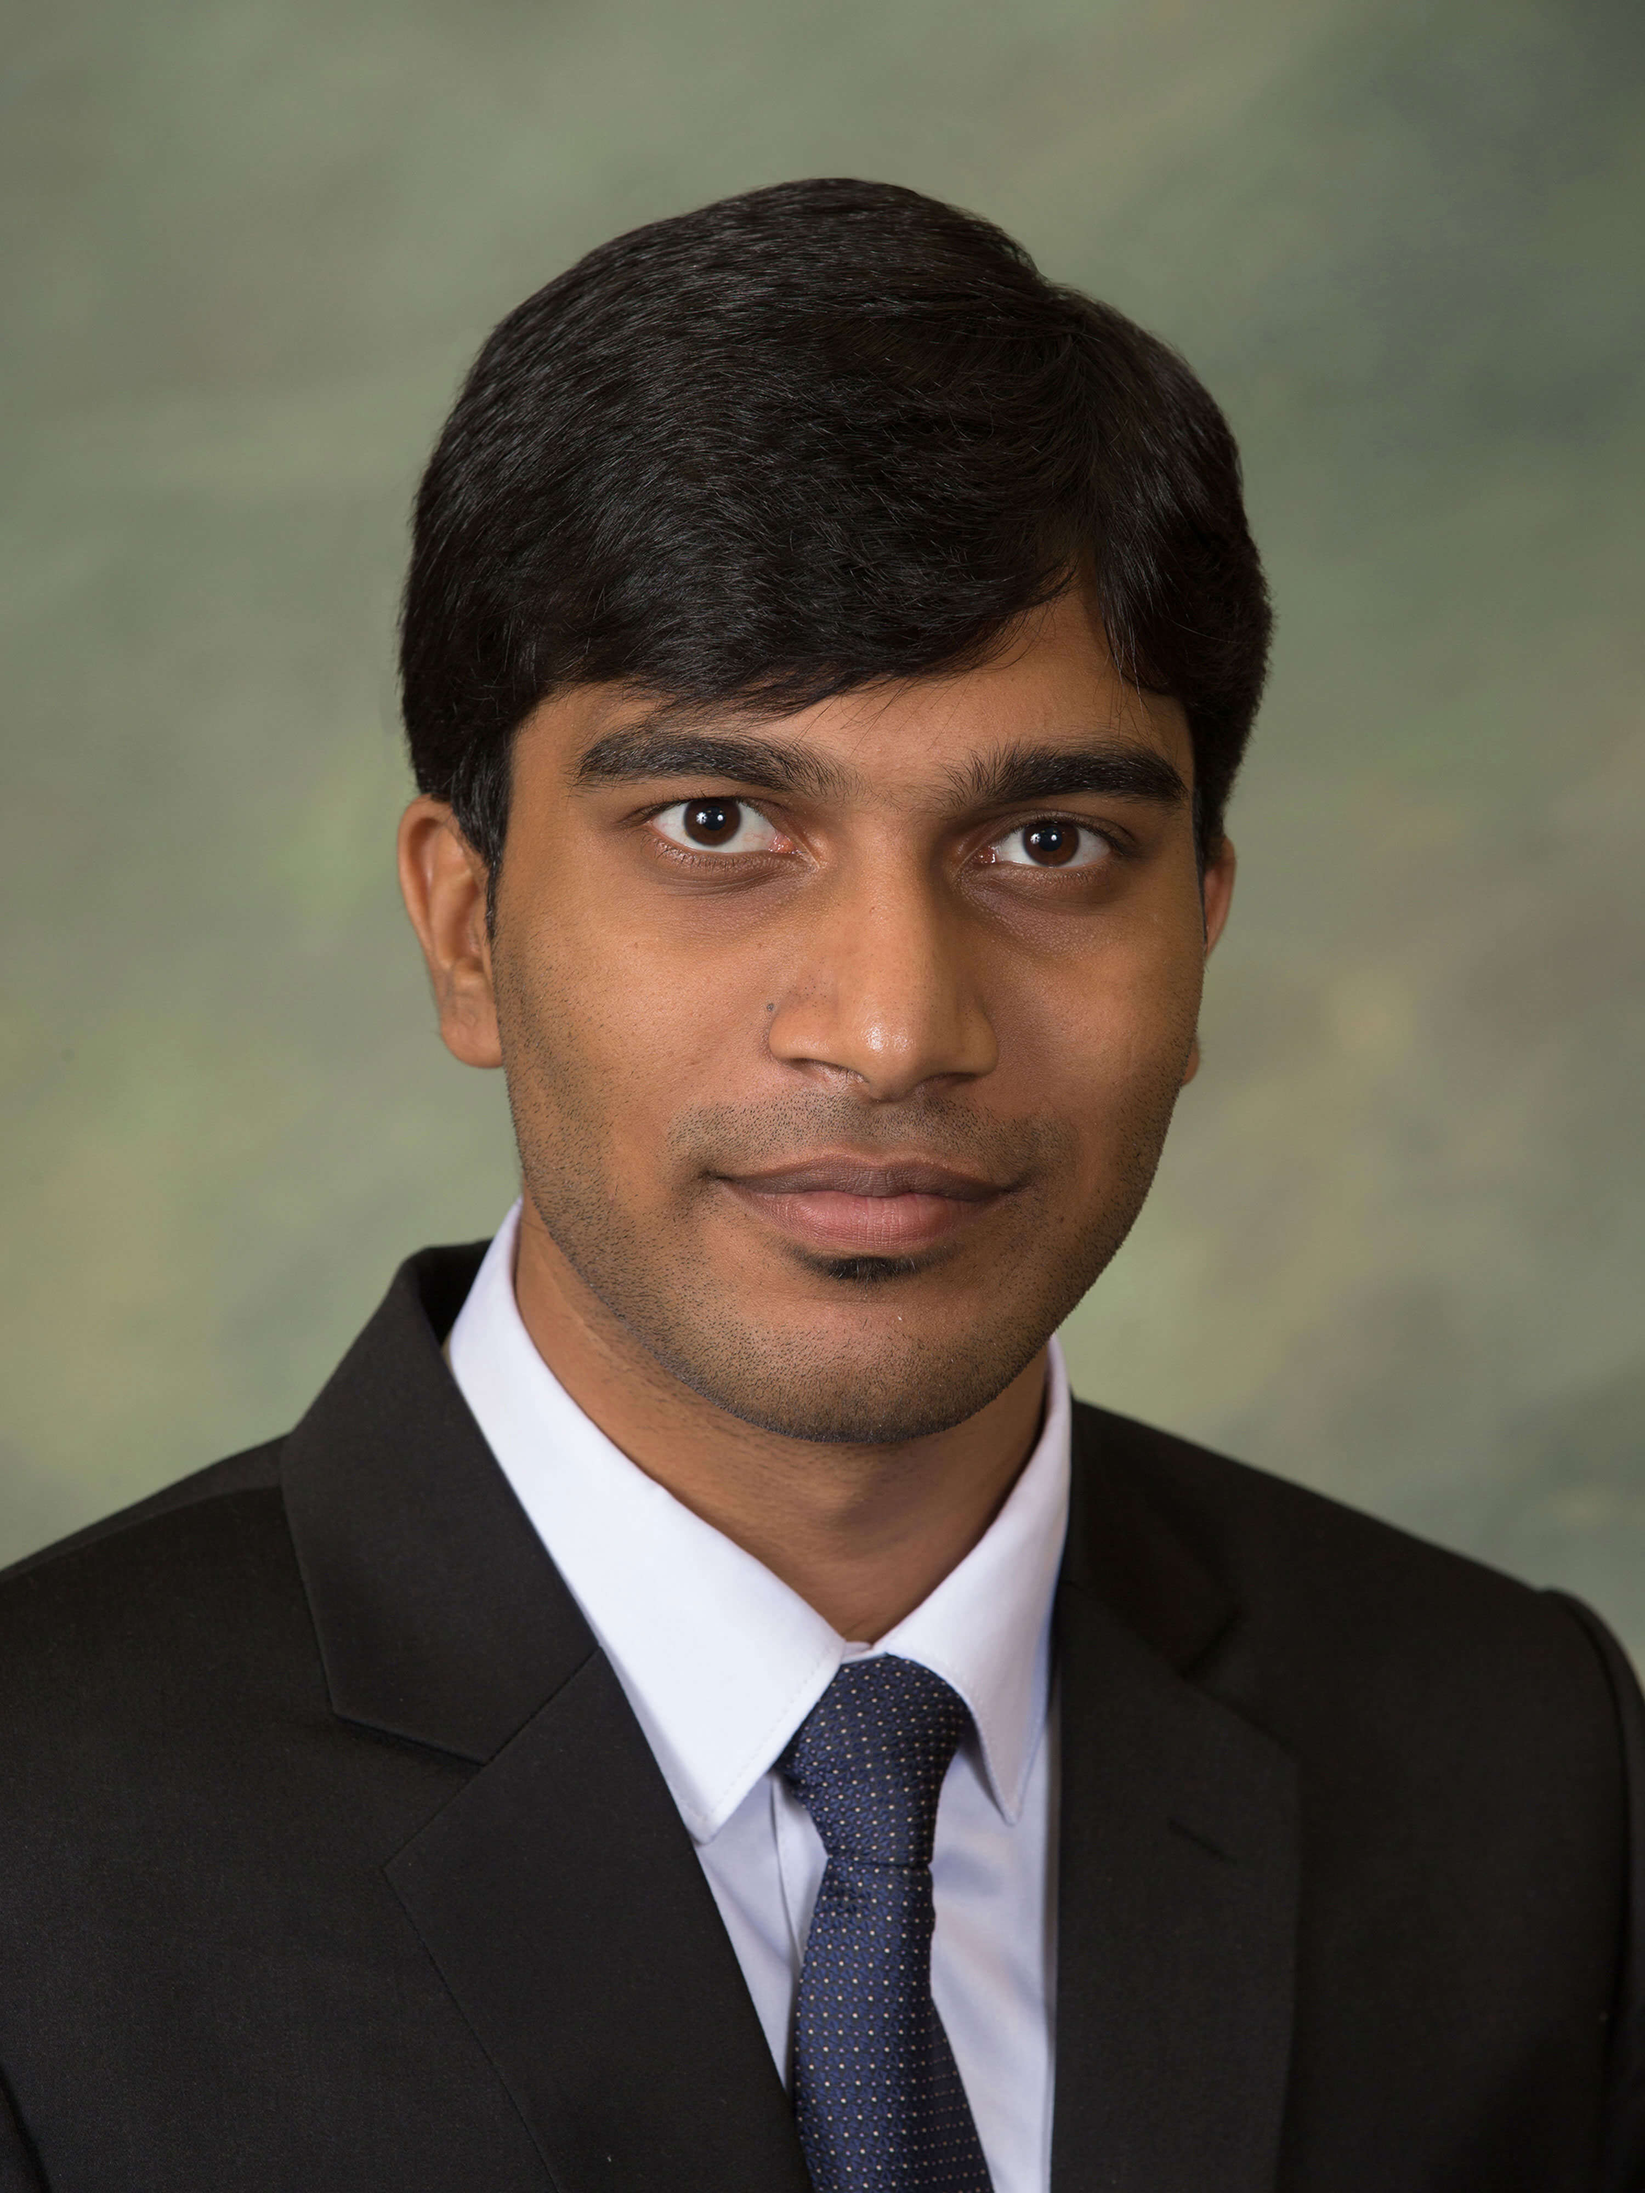
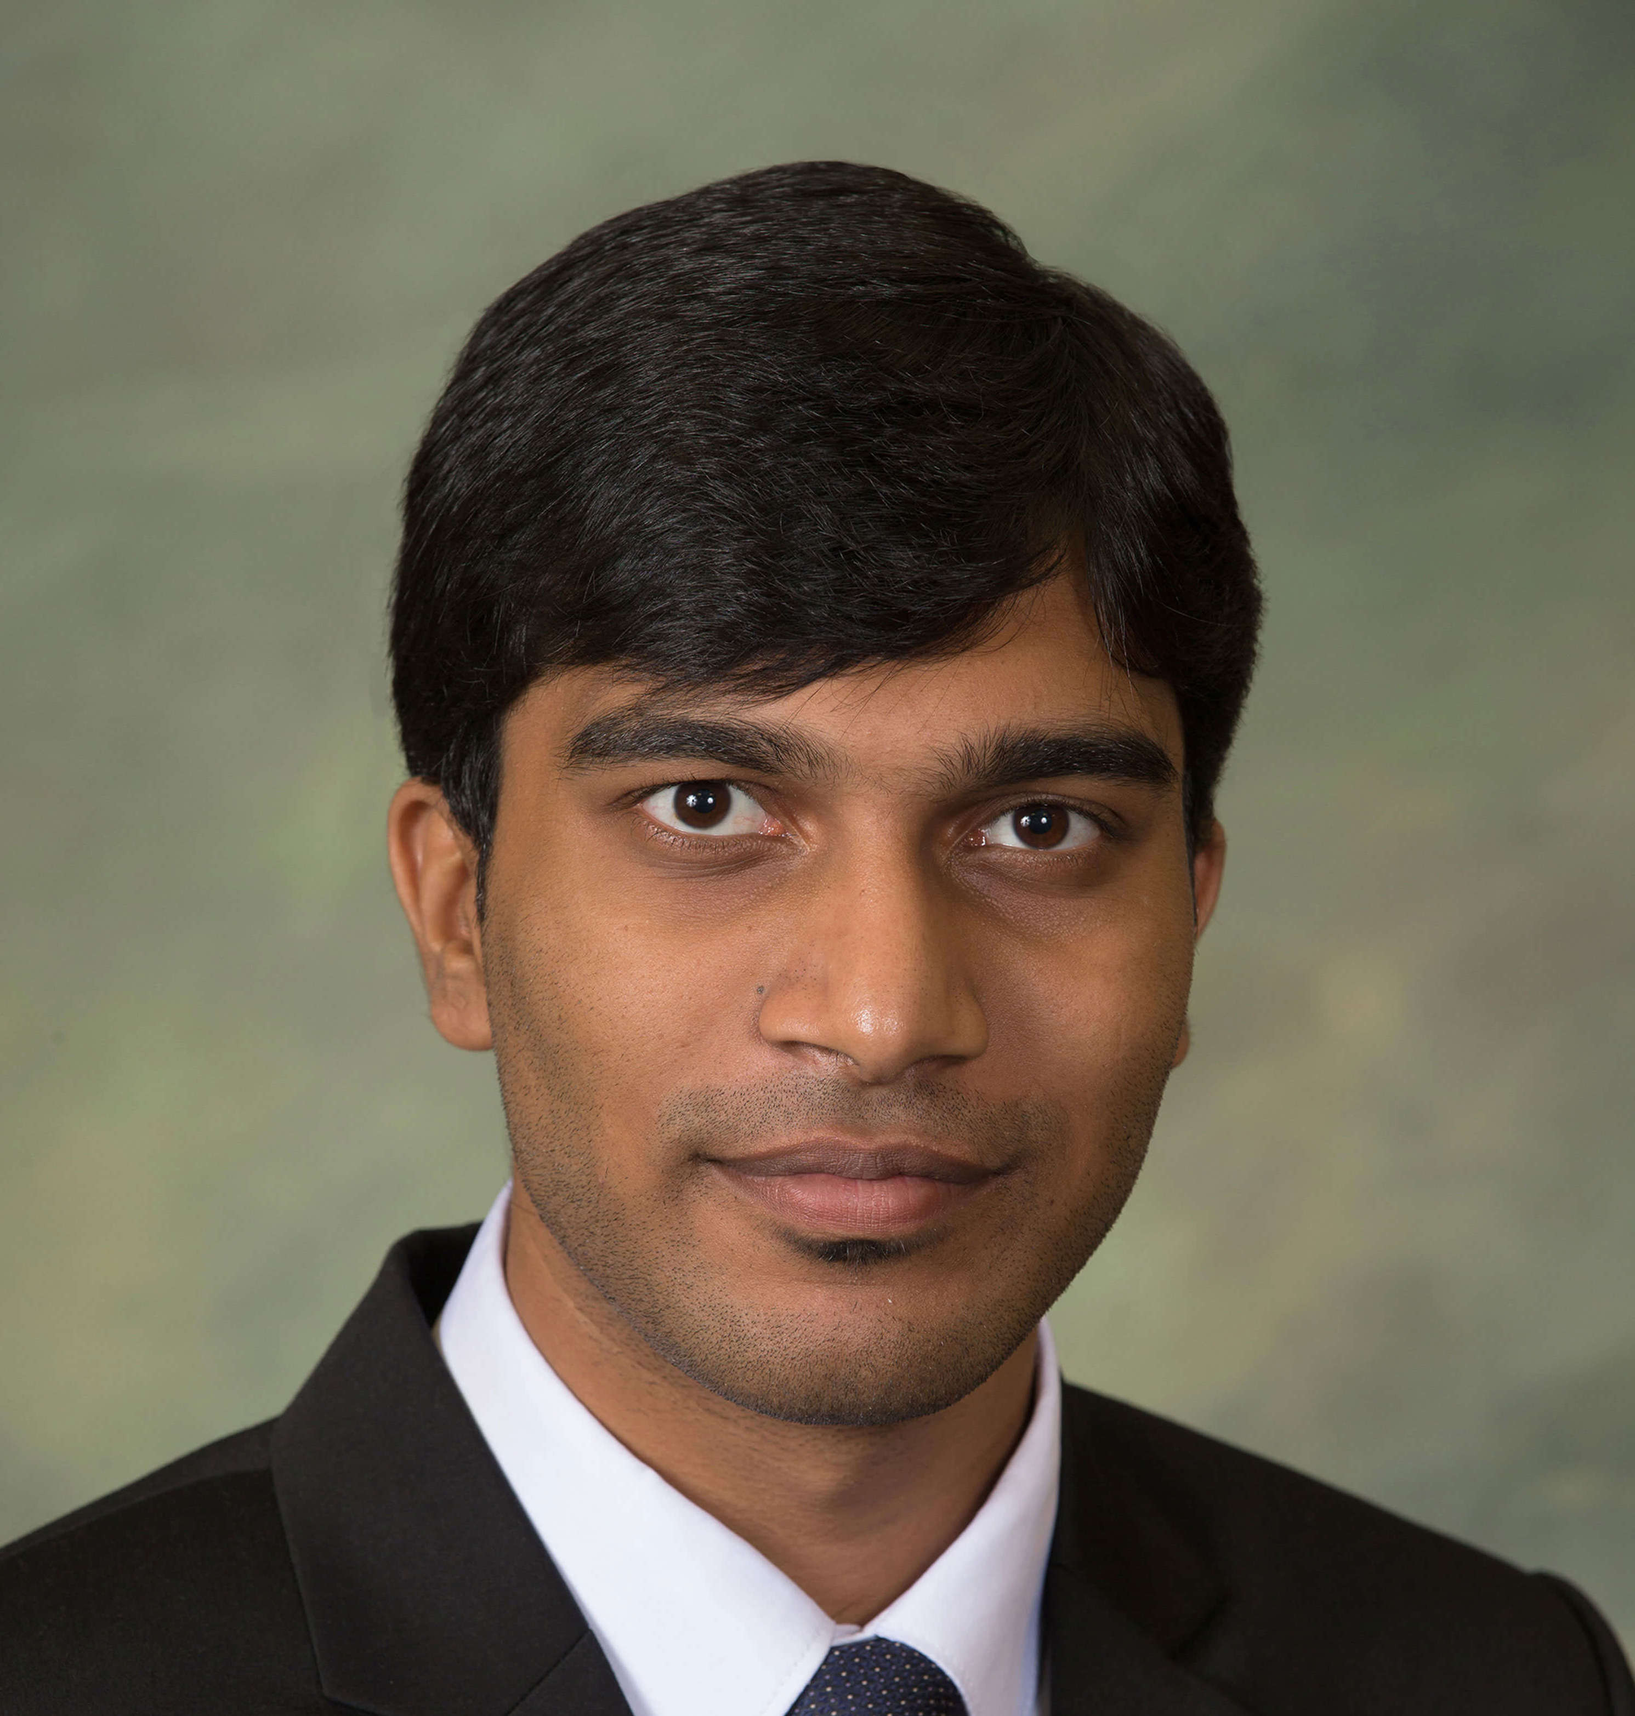
Update square portfolio image

diff --git a/index.html b/index.html
@@ -290,7 +290,7 @@
       <footer>
         <div class=container>
           <div class=row>
-            <div class=col-md-4><span class=copyright>Copyright &copy; Aditya Purandare 2016-2019</span></div>
+            <div class=col-md-4><span class=copyright>Copyright &copy; Aditya Purandare 2015-2019</span></div>
             <div class=col-md-4>
               <ul class="list-inline social-buttons">
                 <li><a href=https://github.com/audip> <i class="fa fa-github"></i></a></li>
